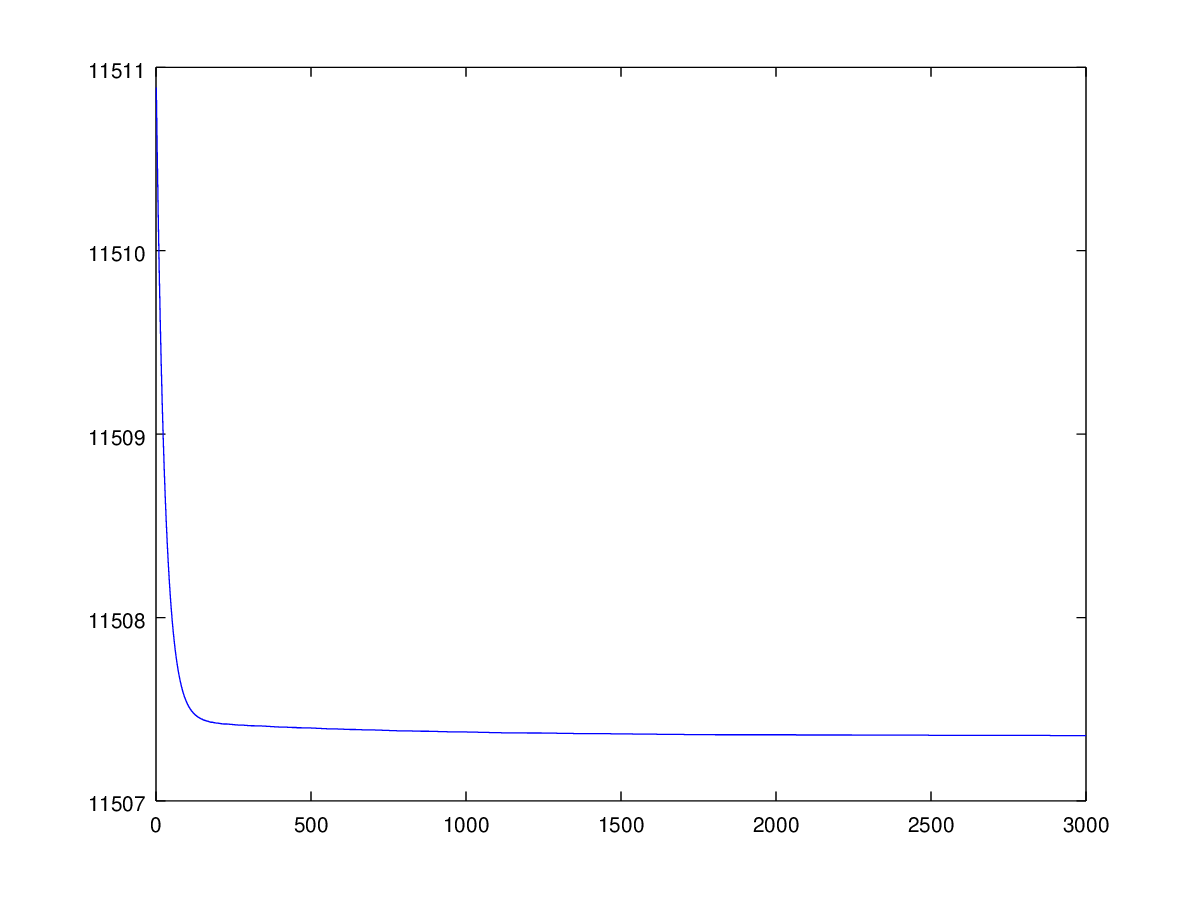
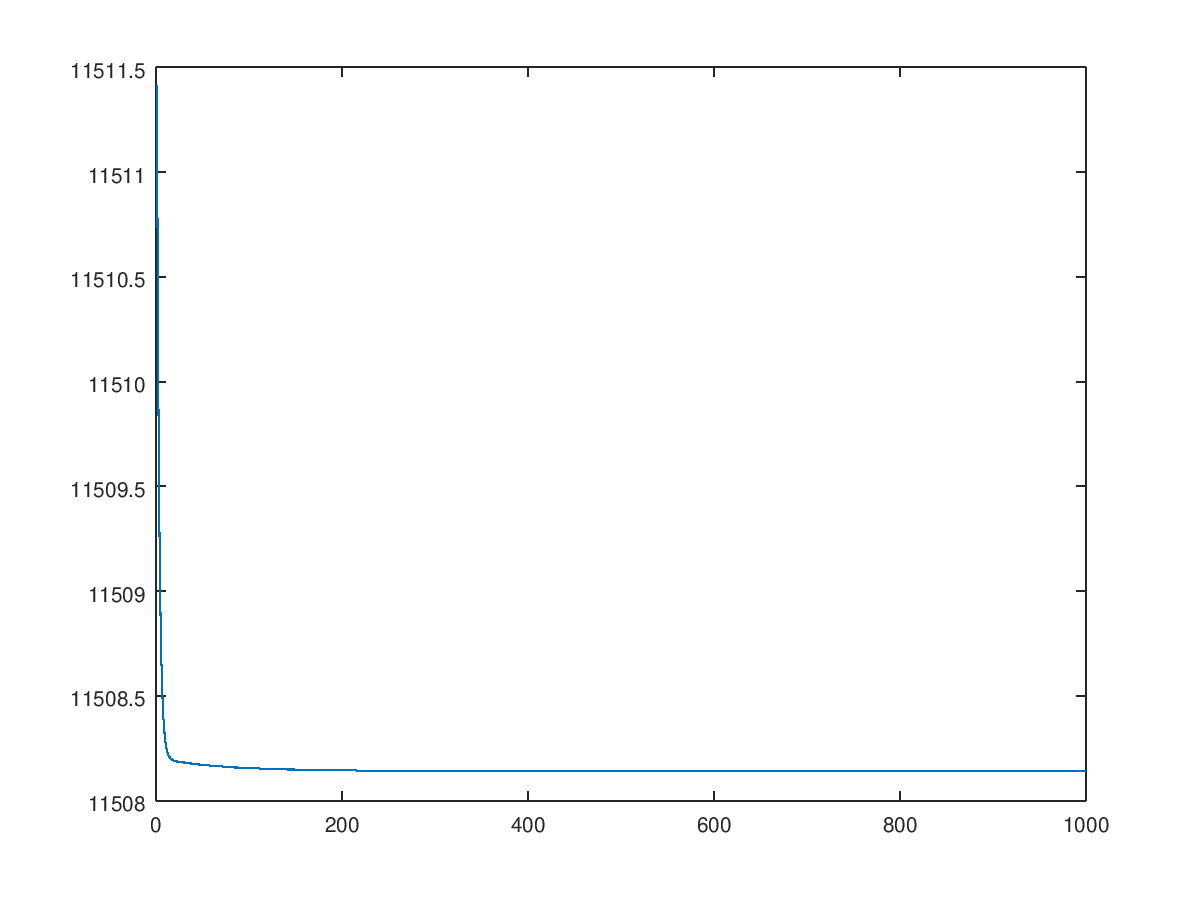
redid experiments for LSAT

diff --git a/results/LawStudents/gender/PREPROCESSED_PMinus/model.m b/results/LawStudents/gender/PREPROCESSED_PMinus/model.m
@@ -1,10 +1,10 @@
-# Created by Octave 4.2.2, Tue Jan 21 21:18:48 2020 CET <meike@Irmchen>
+# Created by Octave 4.2.2, Wed Mar 04 14:50:09 2020 CET <meike@Irmchen>
 # name: omega
 # type: matrix
 # rows: 3
 # columns: 1
- 0.003513736862437747
- 0.07059728944273228
- 0.05306635135634773
+ -0.04611973769159216
+ 0.07016997209552961
+ 0.04201932037510205
 
 

diff --git a/results/LawStudents/gender/PREPROCESSED/model.m b/results/LawStudents/gender/PREPROCESSED/model.m
@@ -1,10 +1,10 @@
-# Created by Octave 4.2.2, Tue Jan 21 20:50:42 2020 CET <meike@Irmchen>
+# Created by Octave 4.2.2, Wed Mar 04 13:38:00 2020 CET <meike@Irmchen>
 # name: omega
 # type: matrix
 # rows: 3
 # columns: 1
- 0.003513736862437756
- 0.07059728944273228
- 0.05306635135634773
+ -0.02417020928439534
+ 0.07032443753627238
+ 0.0422263927487745
 
 

diff --git a/results/LawStudents/gender/GAMMA=LARGE/model.m b/results/LawStudents/gender/GAMMA=LARGE/model.m
@@ -1,10 +1,10 @@
-# Created by Octave 4.2.2, Tue Jan 21 23:48:34 2020 CET <meike@Irmchen>
+# Created by Octave 4.2.2, Wed Mar 04 20:09:10 2020 CET <meike@Irmchen>
 # name: omega
 # type: matrix
 # rows: 3
 # columns: 1
- -0.004886250732531421
- 0.2217697031186404
- 0.2072816711424965
+ -0.003966745669430672
+ 0.2126675457945814
+ 0.1324635506817409
 
 

diff --git a/results/LawStudents/race_black/PREPROCESSED/model.m b/results/LawStudents/race_black/PREPROCESSED/model.m
@@ -1,10 +1,10 @@
-# Created by Octave 4.2.2, Wed Jan 22 00:13:28 2020 CET <meike@Irmchen>
+# Created by Octave 4.2.2, Wed Mar 04 21:12:59 2020 CET <meike@Irmchen>
 # name: omega
 # type: matrix
 # rows: 3
 # columns: 1
- 0.003560959339603859
- 0.04281874395185082
- 0.01725601209657076
+ 0.03696832864714514
+ 0.0555692099296073
+ 0.03306663232450296
 
 

diff --git a/results/LawStudents/gender/GAMMA=SMALL/model.m b/results/LawStudents/gender/GAMMA=SMALL/model.m
@@ -1,10 +1,10 @@
-# Created by Octave 4.2.2, Tue Jan 21 22:58:31 2020 CET <meike@Irmchen>
+# Created by Octave 4.2.2, Wed Mar 04 18:22:52 2020 CET <meike@Irmchen>
 # name: omega
 # type: matrix
 # rows: 3
 # columns: 1
- -0.004978390851553403
- 0.2217643919972873
- 0.2072869180315403
+ -0.06193107724760724
+ 0.2132830871923884
+ 0.1328858525694674
 
 

diff --git a/results/LawStudents/gender/PREPROCESSED_PPlus/model.m b/results/LawStudents/gender/PREPROCESSED_PPlus/model.m
@@ -1,10 +1,10 @@
-# Created by Octave 4.2.2, Tue Jan 21 21:04:46 2020 CET <meike@Irmchen>
+# Created by Octave 4.2.2, Wed Mar 04 14:13:55 2020 CET <meike@Irmchen>
 # name: omega
 # type: matrix
 # rows: 3
 # columns: 1
- 0.1150802862838951
- 0.06872787908557094
- 0.05073761670312091
+ 0.1217350373099234
+ 0.06722035707852736
+ 0.0417531840131862
 
 

diff --git a/results/LawStudents/gender/FA-IR/model.m b/results/LawStudents/gender/FA-IR/model.m
@@ -1,10 +1,10 @@
-# Created by Octave 4.2.2, Tue Jan 21 22:08:40 2020 CET <meike@Irmchen>
+# Created by Octave 4.2.2, Wed Mar 04 16:36:38 2020 CET <meike@Irmchen>
 # name: omega
 # type: matrix
 # rows: 3
 # columns: 1
- -0.005204639482449223
- 0.2217643881866341
- 0.207286916158533
+ -0.160043102180475
+ 0.2119440930374281
+ 0.1319775500746015
 
 

diff --git a/results/LawStudents/gender/GAMMA=0/model.m b/results/LawStudents/gender/GAMMA=0/model.m
@@ -1,10 +1,10 @@
-# Created by Octave 4.2.2, Tue Jan 21 22:08:40 2020 CET <meike@Irmchen>
+# Created by Octave 4.2.2, Wed Mar 04 16:36:38 2020 CET <meike@Irmchen>
 # name: omega
 # type: matrix
 # rows: 3
 # columns: 1
- -0.005204639482449223
- 0.2217643881866341
- 0.207286916158533
+ -0.160043102180475
+ 0.2119440930374281
+ 0.1319775500746015
 
 

diff --git a/results/LawStudents/race_black/PREPROCESSED_PPlus/model.m b/results/LawStudents/race_black/PREPROCESSED_PPlus/model.m
@@ -1,10 +1,10 @@
-# Created by Octave 4.2.2, Wed Jan 22 23:49:26 2020 CET <meike@Irmchen>
+# Created by Octave 4.2.2, Wed Mar 04 21:44:49 2020 CET <meike@Irmchen>
 # name: omega
 # type: matrix
 # rows: 3
 # columns: 1
- 0.3593603650768512
- 0.05439360954222913
- 0.03311447210401273
+ 0.3593601027665882
+ 0.0543935780965273
+ 0.0331144610580018
 
 

diff --git a/results/LawStudents/race_black/FA-IR/model.m b/results/LawStudents/race_black/FA-IR/model.m
@@ -1,10 +1,10 @@
-# Created by Octave 4.2.2, Thu Jan 23 00:39:13 2020 CET <meike@Irmchen>
+# Created by Octave 4.2.2, Wed Mar 04 23:16:23 2020 CET <meike@Irmchen>
 # name: omega
 # type: matrix
 # rows: 3
 # columns: 1
- -0.6578215431800528
- 0.1792071663336355
- 0.1124148149858567
+ -0.657767809632444
+ 0.1792095323414054
+ 0.1124156446809635
 
 

diff --git a/results/LawStudents/race_black/GAMMA=0/model.m b/results/LawStudents/race_black/GAMMA=0/model.m
@@ -1,10 +1,10 @@
-# Created by Octave 4.2.2, Thu Jan 23 00:39:13 2020 CET <meike@Irmchen>
+# Created by Octave 4.2.2, Wed Mar 04 23:16:23 2020 CET <meike@Irmchen>
 # name: omega
 # type: matrix
 # rows: 3
 # columns: 1
- -0.6578215431800528
- 0.1792071663336355
- 0.1124148149858567
+ -0.657767809632444
+ 0.1792095323414054
+ 0.1124156446809635
 
 

diff --git a/results/LawStudents/race_black/GAMMA=LARGE/model.m b/results/LawStudents/race_black/GAMMA=LARGE/model.m
@@ -1,10 +1,10 @@
-# Created by Octave 4.2.2, Thu Jan 23 02:05:00 2020 CET <meike@Irmchen>
+# Created by Octave 4.2.2, Thu Mar 05 14:08:02 2020 CET <meike@Irmchen>
 # name: omega
 # type: matrix
 # rows: 3
 # columns: 1
- 0.6097166118838757
- 0.0240852449155986
- 0.0328120447127846
+ 0.3214751755498788
+ 0.1801538505251239
+ 0.1130540321322106
 
 
